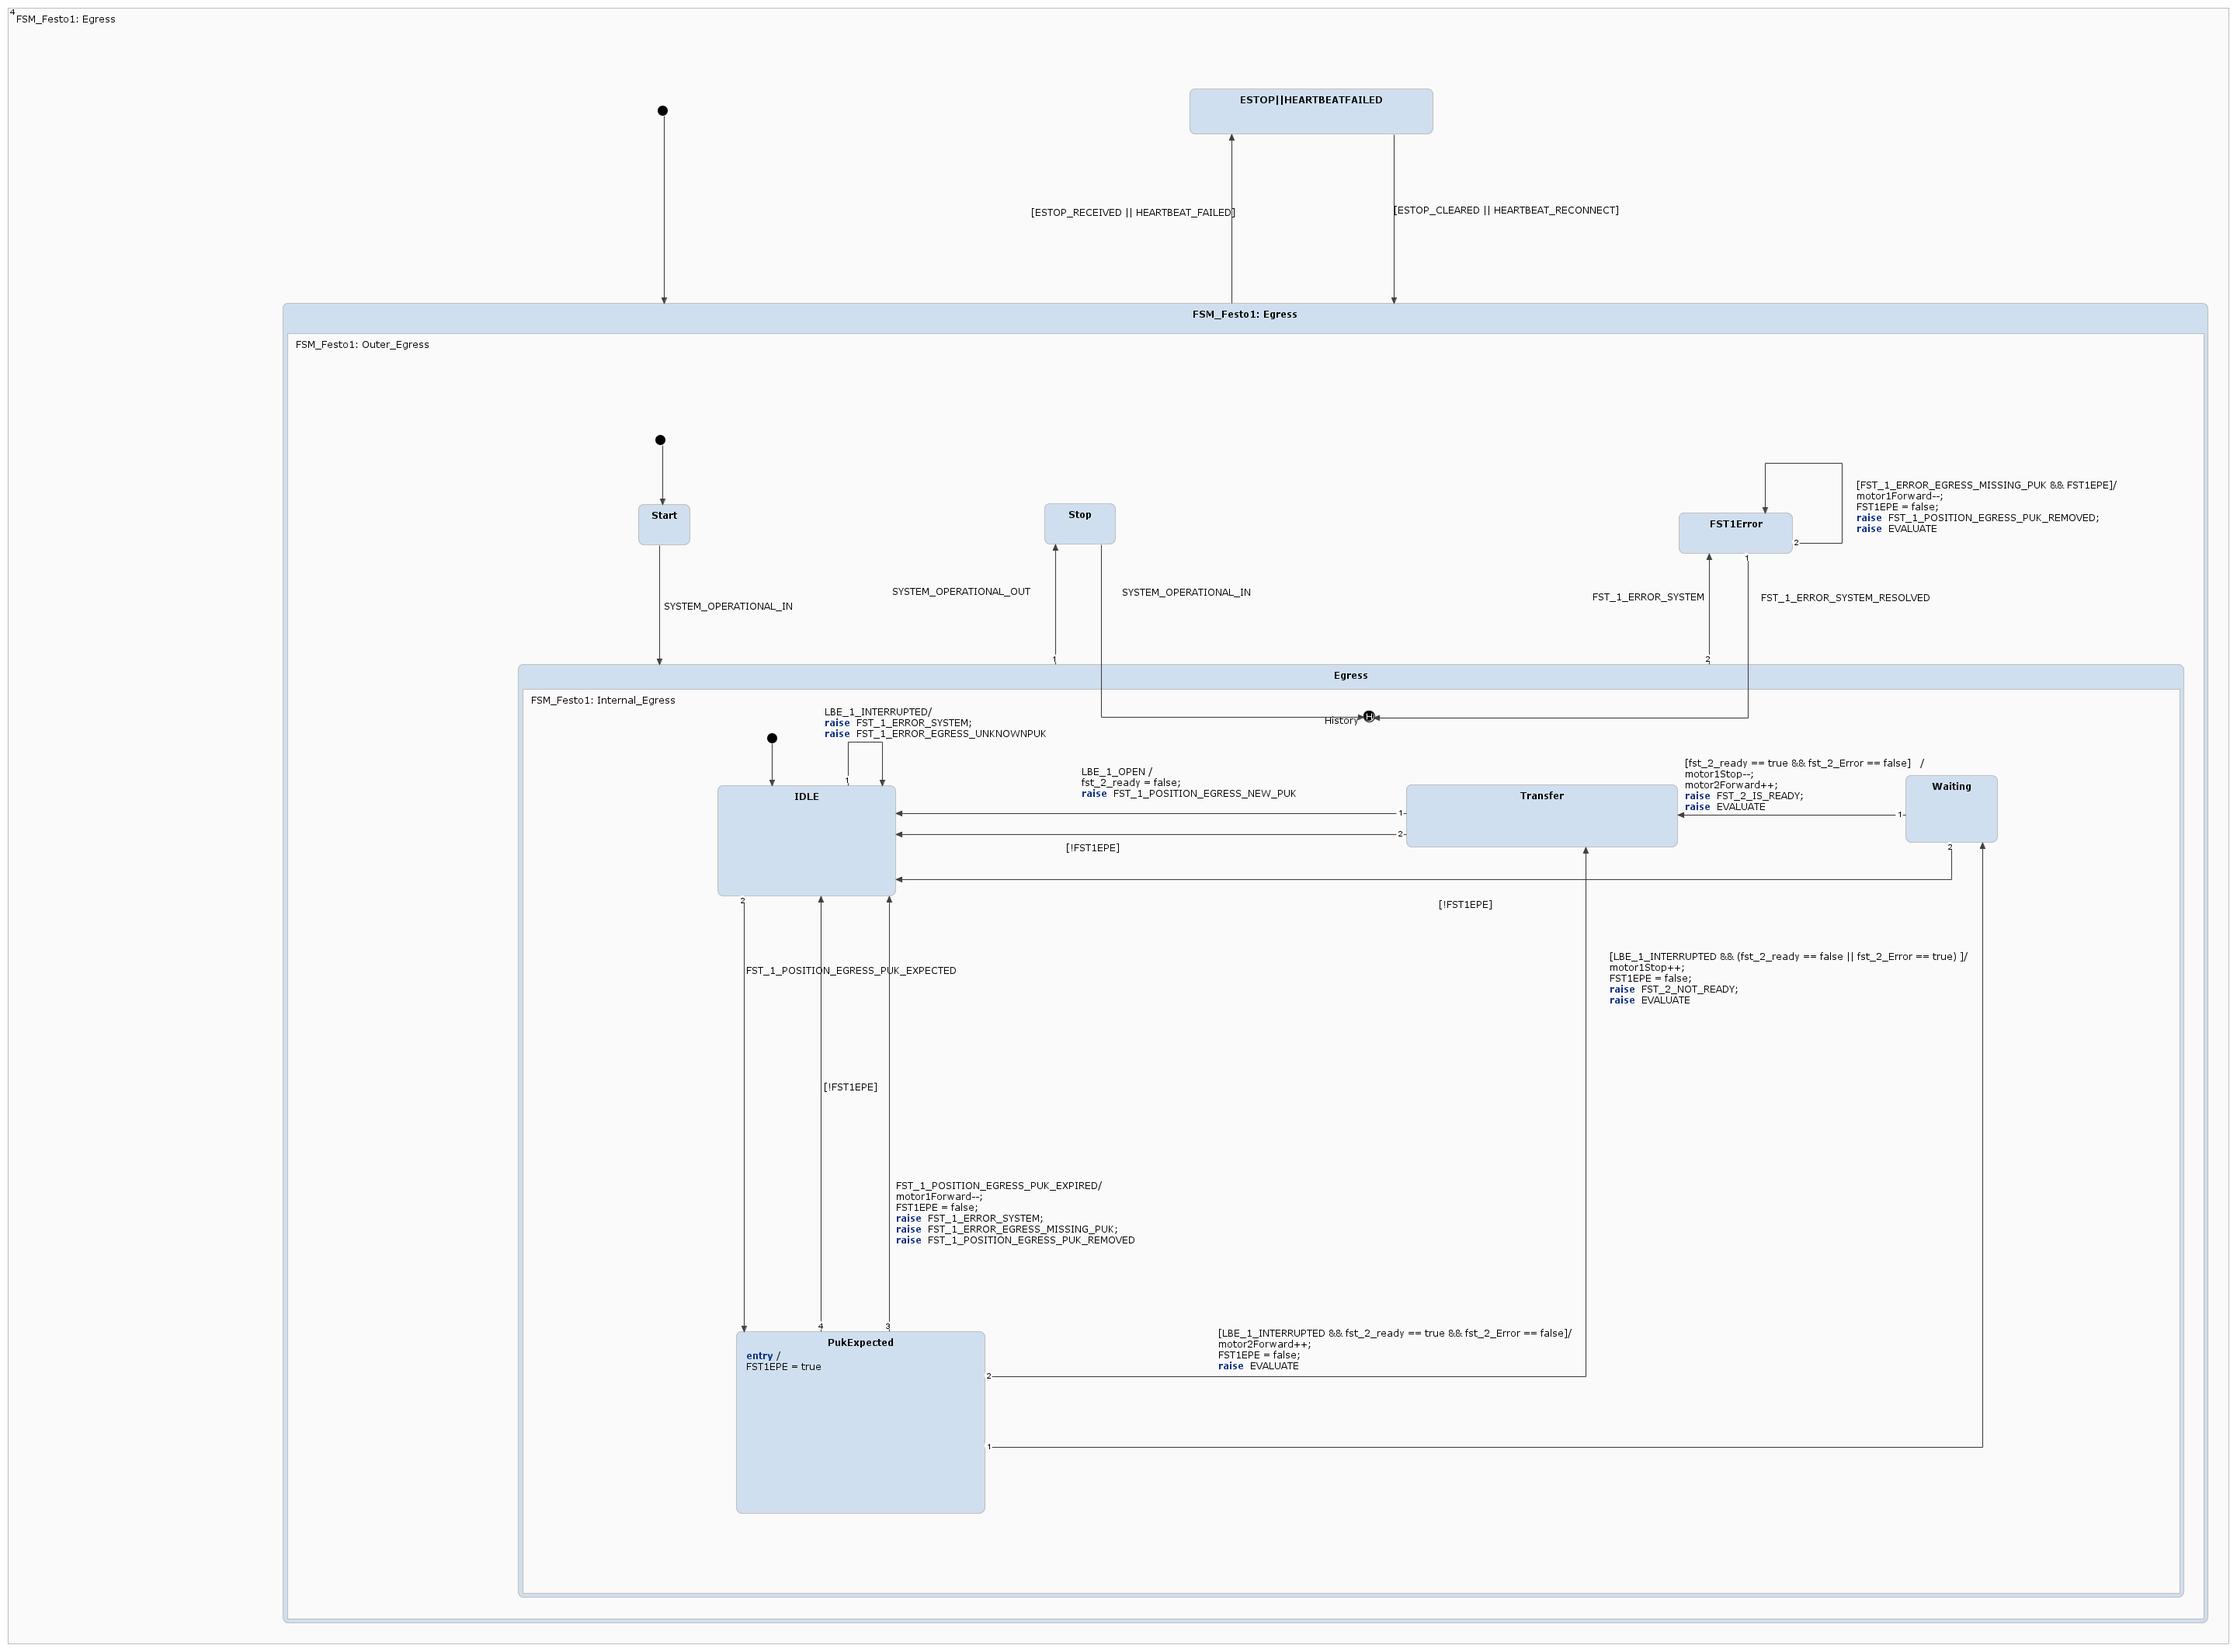
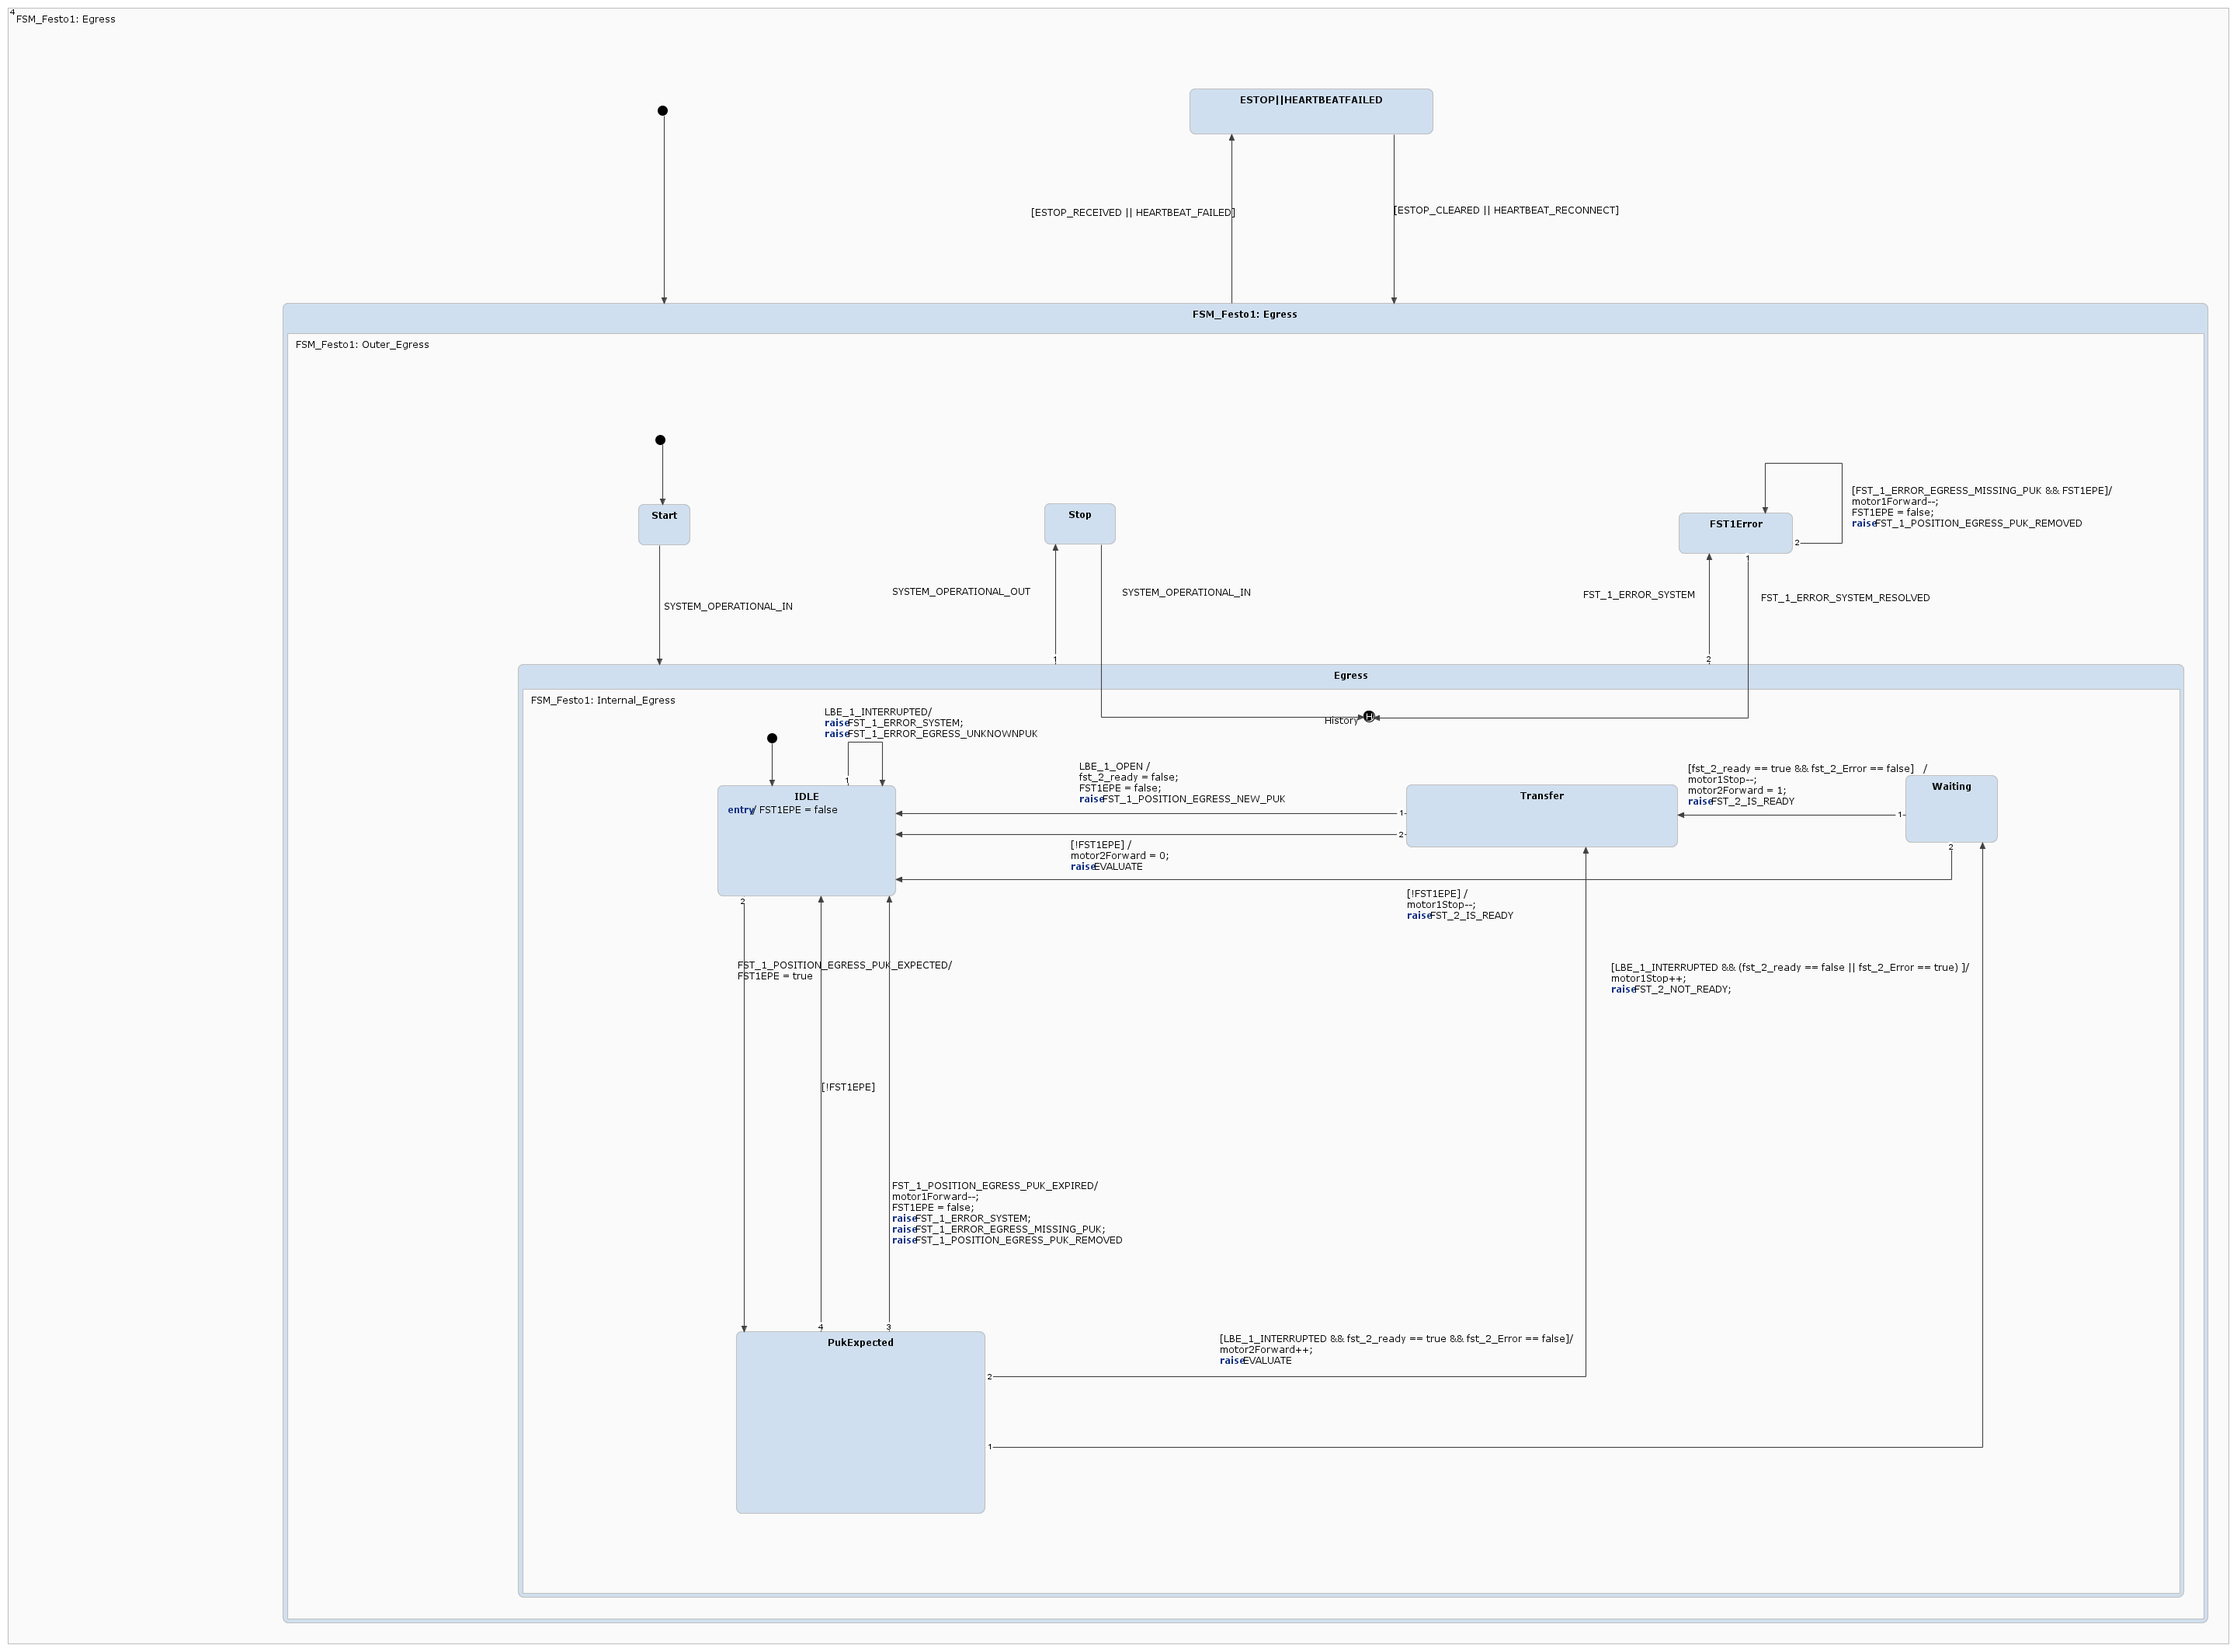
Reviewed fst1 egress together

diff --git a/src/FSM/gen/src-gen/FSM.cpp b/src/FSM/gen/src-gen/FSM.cpp
@@ -4574,11 +4574,11 @@ void FSM::enact_FSM_Festo1__Sorting_FSM_Festo1__Sorting_FSM_Festo1__Outer_Sortin
 	completed = true;
 }
 
-/* Entry action for state 'PukExpected'. */
-void FSM::enact_FSM_Festo1__Egress_FSM_Festo1__Egress_FSM_Festo1__Outer_Egress_Egress_FSM_Festo1__Internal_Egress_PukExpected()
+/* Entry action for state 'IDLE'. */
+void FSM::enact_FSM_Festo1__Egress_FSM_Festo1__Egress_FSM_Festo1__Outer_Egress_Egress_FSM_Festo1__Internal_Egress_IDLE()
 {
-	/* Entry action for state 'PukExpected'. */
-	setFST1EPE(true);
+	/* Entry action for state 'IDLE'. */
+	setFST1EPE(false);
 }
 
 /* Entry action for state 'Forward'. */
@@ -5822,7 +5822,6 @@ void FSM::enseq_FSM_Festo1__Egress_FSM_Festo1__Egress_FSM_Festo1__Outer_Egress_E
 void FSM::enseq_FSM_Festo1__Egress_FSM_Festo1__Egress_FSM_Festo1__Outer_Egress_Egress_FSM_Festo1__Internal_Egress_PukExpected_default()
 {
 	/* 'default' enter sequence for state PukExpected */
-	enact_FSM_Festo1__Egress_FSM_Festo1__Egress_FSM_Festo1__Outer_Egress_Egress_FSM_Festo1__Internal_Egress_PukExpected();
 	stateConfVector[3] = FSM::State::FSM_Festo1__Egress_FSM_Festo1__Egress_FSM_Festo1__Outer_Egress_Egress_FSM_Festo1__Internal_Egress_PukExpected;
 	stateConfVectorPosition = 3;
 	historyVector[4] = stateConfVector[3];
@@ -5832,6 +5831,7 @@ void FSM::enseq_FSM_Festo1__Egress_FSM_Festo1__Egress_FSM_Festo1__Outer_Egress_E
 void FSM::enseq_FSM_Festo1__Egress_FSM_Festo1__Egress_FSM_Festo1__Outer_Egress_Egress_FSM_Festo1__Internal_Egress_IDLE_default()
 {
 	/* 'default' enter sequence for state IDLE */
+	enact_FSM_Festo1__Egress_FSM_Festo1__Egress_FSM_Festo1__Outer_Egress_Egress_FSM_Festo1__Internal_Egress_IDLE();
 	stateConfVector[3] = FSM::State::FSM_Festo1__Egress_FSM_Festo1__Egress_FSM_Festo1__Outer_Egress_Egress_FSM_Festo1__Internal_Egress_IDLE;
 	stateConfVectorPosition = 3;
 	historyVector[4] = stateConfVector[3];
@@ -15546,11 +15546,9 @@ sc::integer FSM::FSM_Festo1__Egress_FSM_Festo1__Egress_FSM_Festo1__Outer_Egress_
 			{ 
 				exseq_FSM_Festo1__Egress_FSM_Festo1__Egress_FSM_Festo1__Outer_Egress_Egress_FSM_Festo1__Internal_Egress_Waiting();
 				motor1Stop--;
-				motor2Forward++;
+				setMotor2Forward(1);
 				FST_2_IS_READY_observable.next();
 				raiseLocal_FST_2_IS_READY();
-				EVALUATE_observable.next();
-				raiseLocal_EVALUATE();
 				enseq_FSM_Festo1__Egress_FSM_Festo1__Egress_FSM_Festo1__Outer_Egress_Egress_FSM_Festo1__Internal_Egress_Transfer_default();
 				FSM_Festo1__Egress_FSM_Festo1__Egress_FSM_Festo1__Outer_Egress_Egress_react(3);
 				transitioned_after = 3;
@@ -15559,6 +15557,9 @@ sc::integer FSM::FSM_Festo1__Egress_FSM_Festo1__Egress_FSM_Festo1__Outer_Egress_
 				if (!(FST1EPE))
 				{ 
 					exseq_FSM_Festo1__Egress_FSM_Festo1__Egress_FSM_Festo1__Outer_Egress_Egress_FSM_Festo1__Internal_Egress_Waiting();
+					motor1Stop--;
+					FST_2_IS_READY_observable.next();
+					raiseLocal_FST_2_IS_READY();
 					enseq_FSM_Festo1__Egress_FSM_Festo1__Egress_FSM_Festo1__Outer_Egress_Egress_FSM_Festo1__Internal_Egress_IDLE_default();
 					FSM_Festo1__Egress_FSM_Festo1__Egress_FSM_Festo1__Outer_Egress_Egress_react(3);
 					transitioned_after = 3;
@@ -15586,6 +15587,7 @@ sc::integer FSM::FSM_Festo1__Egress_FSM_Festo1__Egress_FSM_Festo1__Outer_Egress_
 			{ 
 				exseq_FSM_Festo1__Egress_FSM_Festo1__Egress_FSM_Festo1__Outer_Egress_Egress_FSM_Festo1__Internal_Egress_Transfer();
 				setFst_2_ready(false);
+				setFST1EPE(false);
 				FST_1_POSITION_EGRESS_NEW_PUK_observable.next();
 				enseq_FSM_Festo1__Egress_FSM_Festo1__Egress_FSM_Festo1__Outer_Egress_Egress_FSM_Festo1__Internal_Egress_IDLE_default();
 				FSM_Festo1__Egress_FSM_Festo1__Egress_FSM_Festo1__Outer_Egress_Egress_react(3);
@@ -15595,6 +15597,9 @@ sc::integer FSM::FSM_Festo1__Egress_FSM_Festo1__Egress_FSM_Festo1__Outer_Egress_
 				if (!(FST1EPE))
 				{ 
 					exseq_FSM_Festo1__Egress_FSM_Festo1__Egress_FSM_Festo1__Outer_Egress_Egress_FSM_Festo1__Internal_Egress_Transfer();
+					setMotor2Forward(0);
+					EVALUATE_observable.next();
+					raiseLocal_EVALUATE();
 					enseq_FSM_Festo1__Egress_FSM_Festo1__Egress_FSM_Festo1__Outer_Egress_Egress_FSM_Festo1__Internal_Egress_IDLE_default();
 					FSM_Festo1__Egress_FSM_Festo1__Egress_FSM_Festo1__Outer_Egress_Egress_react(3);
 					transitioned_after = 3;
@@ -15622,11 +15627,8 @@ sc::integer FSM::FSM_Festo1__Egress_FSM_Festo1__Egress_FSM_Festo1__Outer_Egress_
 			{ 
 				exseq_FSM_Festo1__Egress_FSM_Festo1__Egress_FSM_Festo1__Outer_Egress_Egress_FSM_Festo1__Internal_Egress_PukExpected();
 				motor1Stop++;
-				setFST1EPE(false);
 				FST_2_NOT_READY_observable.next();
 				raiseLocal_FST_2_NOT_READY();
-				EVALUATE_observable.next();
-				raiseLocal_EVALUATE();
 				enseq_FSM_Festo1__Egress_FSM_Festo1__Egress_FSM_Festo1__Outer_Egress_Egress_FSM_Festo1__Internal_Egress_Waiting_default();
 				FSM_Festo1__Egress_FSM_Festo1__Egress_FSM_Festo1__Outer_Egress_Egress_react(3);
 				transitioned_after = 3;
@@ -15636,7 +15638,6 @@ sc::integer FSM::FSM_Festo1__Egress_FSM_Festo1__Egress_FSM_Festo1__Outer_Egress_
 				{ 
 					exseq_FSM_Festo1__Egress_FSM_Festo1__Egress_FSM_Festo1__Outer_Egress_Egress_FSM_Festo1__Internal_Egress_PukExpected();
 					motor2Forward++;
-					setFST1EPE(false);
 					EVALUATE_observable.next();
 					raiseLocal_EVALUATE();
 					enseq_FSM_Festo1__Egress_FSM_Festo1__Egress_FSM_Festo1__Outer_Egress_Egress_FSM_Festo1__Internal_Egress_Transfer_default();
@@ -15702,6 +15703,7 @@ sc::integer FSM::FSM_Festo1__Egress_FSM_Festo1__Egress_FSM_Festo1__Outer_Egress_
 				if (FST_1_POSITION_EGRESS_PUK_EXPECTED_raised)
 				{ 
 					exseq_FSM_Festo1__Egress_FSM_Festo1__Egress_FSM_Festo1__Outer_Egress_Egress_FSM_Festo1__Internal_Egress_IDLE();
+					setFST1EPE(true);
 					enseq_FSM_Festo1__Egress_FSM_Festo1__Egress_FSM_Festo1__Outer_Egress_Egress_FSM_Festo1__Internal_Egress_PukExpected_default();
 					FSM_Festo1__Egress_FSM_Festo1__Egress_FSM_Festo1__Outer_Egress_Egress_react(3);
 					transitioned_after = 3;
@@ -15739,8 +15741,6 @@ sc::integer FSM::FSM_Festo1__Egress_FSM_Festo1__Egress_FSM_Festo1__Outer_Egress_
 					motor1Forward--;
 					setFST1EPE(false);
 					FST_1_POSITION_EGRESS_PUK_REMOVED_observable.next();
-					EVALUATE_observable.next();
-					raiseLocal_EVALUATE();
 					enseq_FSM_Festo1__Egress_FSM_Festo1__Egress_FSM_Festo1__Outer_Egress_FST1Error_default();
 					FSM_Festo1__Egress_FSM_Festo1__Egress_react(3);
 					transitioned_after = 3;

diff --git a/src/FSM/gen/src-gen/FSM.h b/src/FSM/gen/src-gen/FSM.h
@@ -1685,7 +1685,7 @@ class FSM : public sc::EventDrivenInterface
 		void enact_FSM_Festo1__Sorting_FSM_Festo1__Sorting_FSM_Festo1__Outer_Sorting_Sorting_FSM_Festo1__Internal_Sorting_TransferDiverter();
 		void enact_FSM_Festo1__Sorting_FSM_Festo1__Sorting_FSM_Festo1__Outer_Sorting_Sorting_FSM_Festo1__Internal_Sorting_EjectingEjector();
 		void enact_FSM_Festo1__Sorting_FSM_Festo1__Sorting_FSM_Festo1__Outer_Sorting_Sorting_FSM_Festo1__Internal_Sorting_EvaluateCounter();
-		void enact_FSM_Festo1__Egress_FSM_Festo1__Egress_FSM_Festo1__Outer_Egress_Egress_FSM_Festo1__Internal_Egress_PukExpected();
+		void enact_FSM_Festo1__Egress_FSM_Festo1__Egress_FSM_Festo1__Outer_Egress_Egress_FSM_Festo1__Internal_Egress_IDLE();
 		void enact_FSM_QualityGate__Motor_SystemMotor_FSM_SystemMotor_Forward();
 		void enact_FSM_QualityGate__Motor_SystemMotor_FSM_SystemMotor_Slow();
 		void enact_FSM_QualityGate__Motor_SystemMotor_FSM_SystemMotor_Stop();
